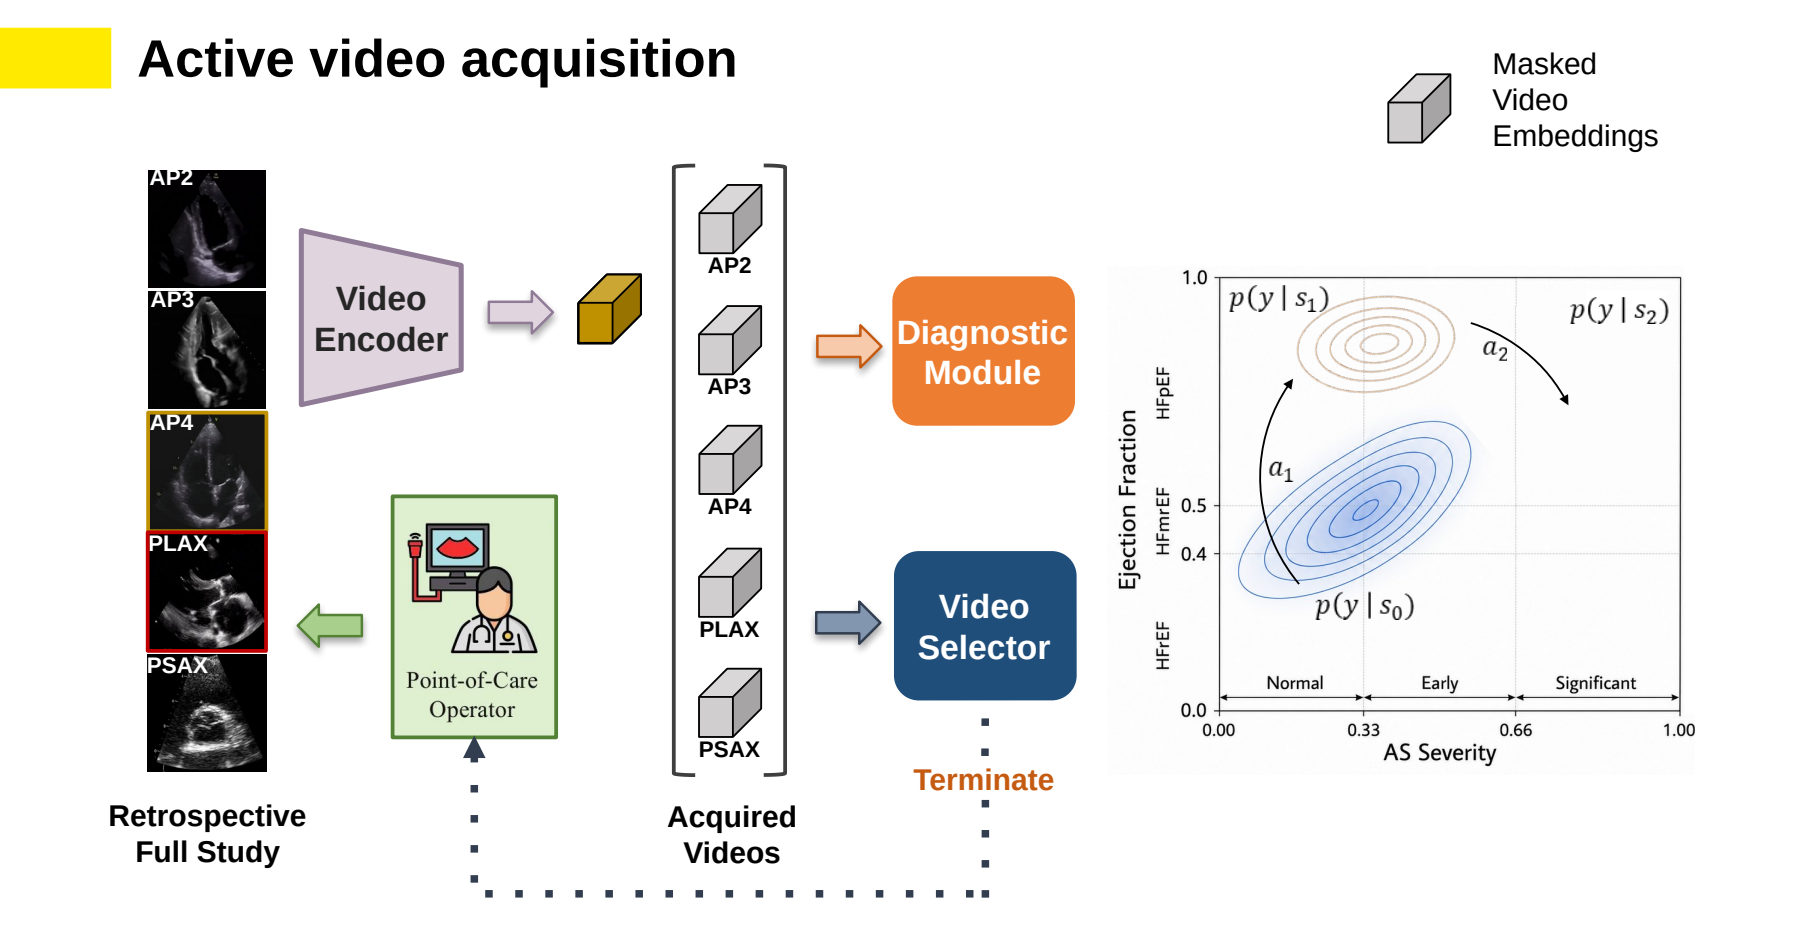
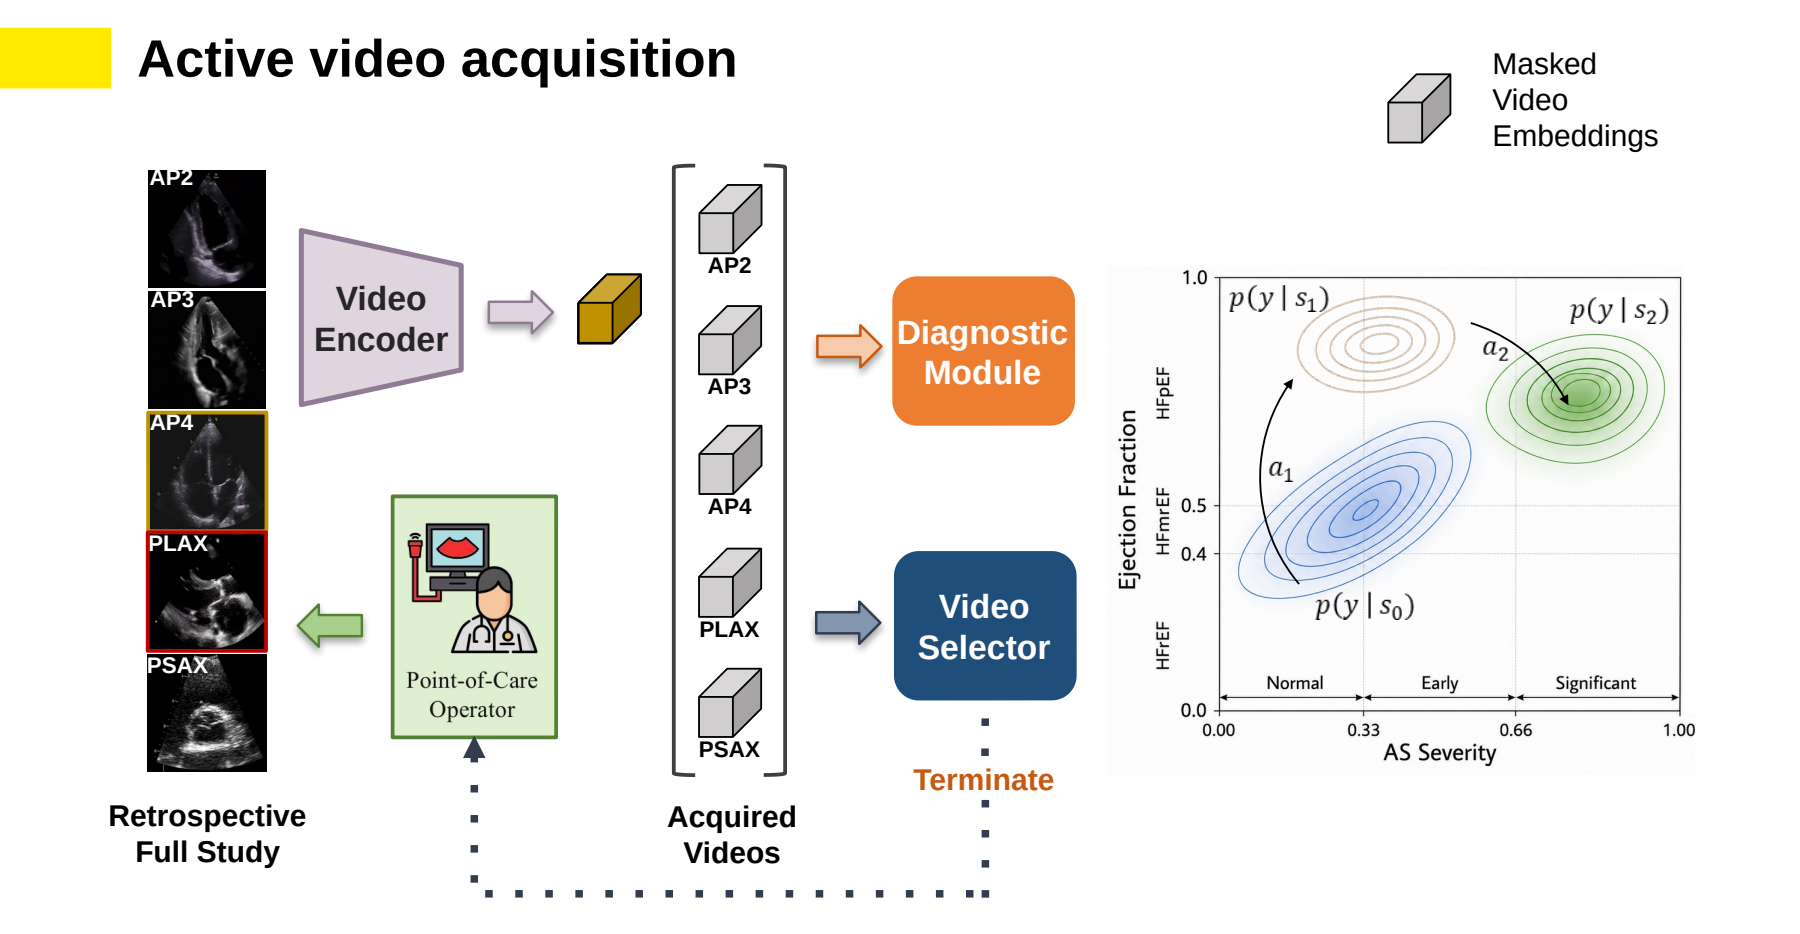
Show final diagnostic distribution in acquisition figure

Changed region(s): [[0.8089, 0.3726, 0.9333, 0.4968]]

diff --git a/docs/assets/README.md b/docs/assets/README.md
@@ -4,7 +4,7 @@ These assets were extracted from the project authors' supplied `presentation_4mi
 
 | Asset | Source in the supplied presentations | Processing |
 | --- | --- | --- |
-| `acquisition-loop.png` | Seven-minute deck, slide 7, “Active video acquisition” | Rendered slide; cropped top border and bottom margin, preserving the diagram and title |
+| `acquisition-loop.png` | Seven-minute deck, slide 7, “Active video acquisition” | Rendered with the final diagnostic distribution revealed from the slide animation; retained the embedding placeholders and cropped the top border and bottom margin |
 | `performance.png` | Seven-minute deck, `ppt/media/image55.png` | Lossless PNG re-encoding |
 | `decision-pathways.png` | Seven-minute deck, `ppt/media/image61.png`; also four-minute deck, `ppt/media/image37.png` | Lossless PNG re-encoding |
 | `ap4.gif` | Seven-minute `image23.gif`; four-minute `image23.gif` | Resized, padded, palette reduced; every third frame retained with accumulated timing |

diff --git a/README.md b/README.md
@@ -38,7 +38,7 @@ The system jointly estimates **aortic stenosis (AS) severity** and **left ventri
 
 ## How it works
 
-<p align="center"><img src="docs/assets/acquisition-loop.png" width="100%" alt="Active acquisition loop: echo videos pass through a video encoder into a probabilistic diagnostic module and a video selector, which chooses the next view or terminates acquisition."></p>
+<p align="center"><img src="docs/assets/acquisition-loop.png" width="100%" alt="Active acquisition loop showing the initial, intermediate, and final joint AS/LVEF diagnostic distributions, with a termination action."></p>
 
 1. **Encode the acquired views.** A frozen EchoPrime video encoder extracts features from available clips; unobserved views remain masked.
 2. **Update the joint prediction.** A task-aware Transformer fuses the observed views to estimate AS severity and LVEF probabilistically.
